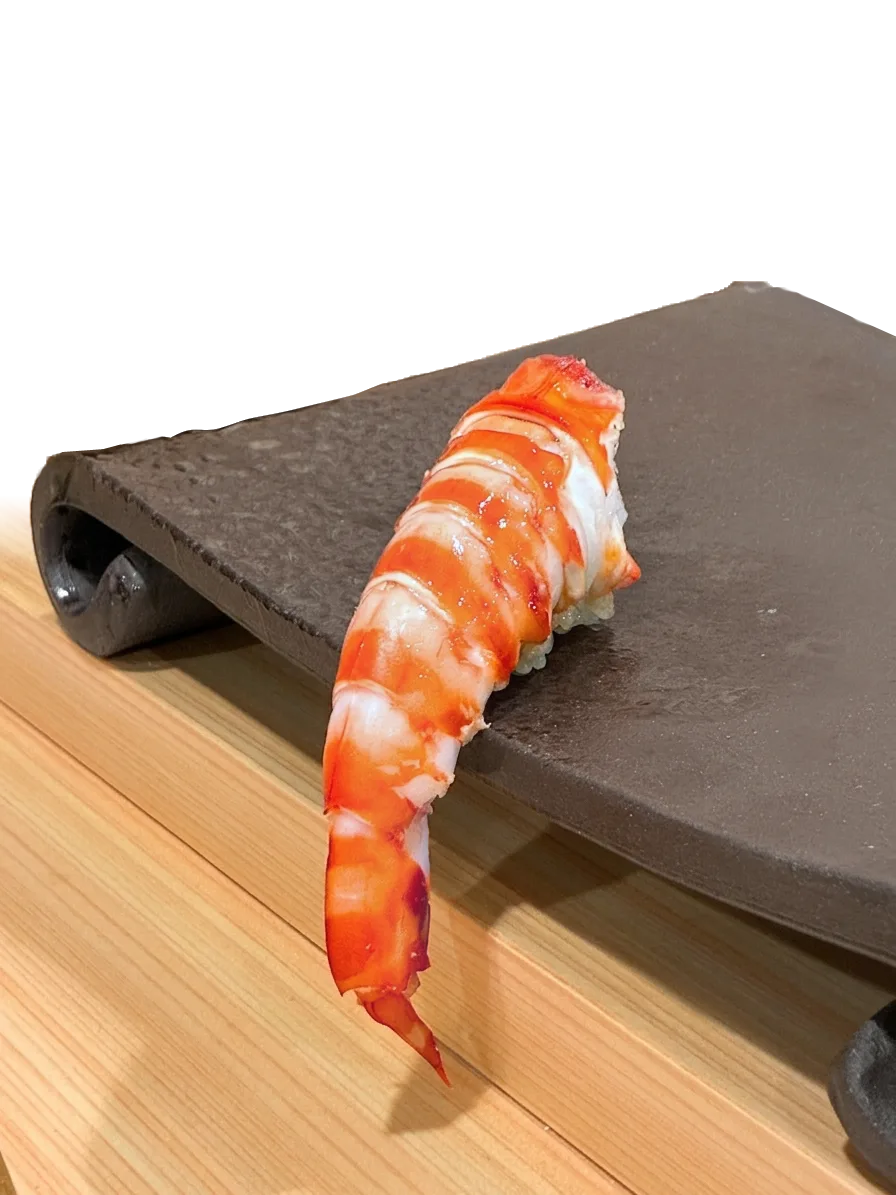
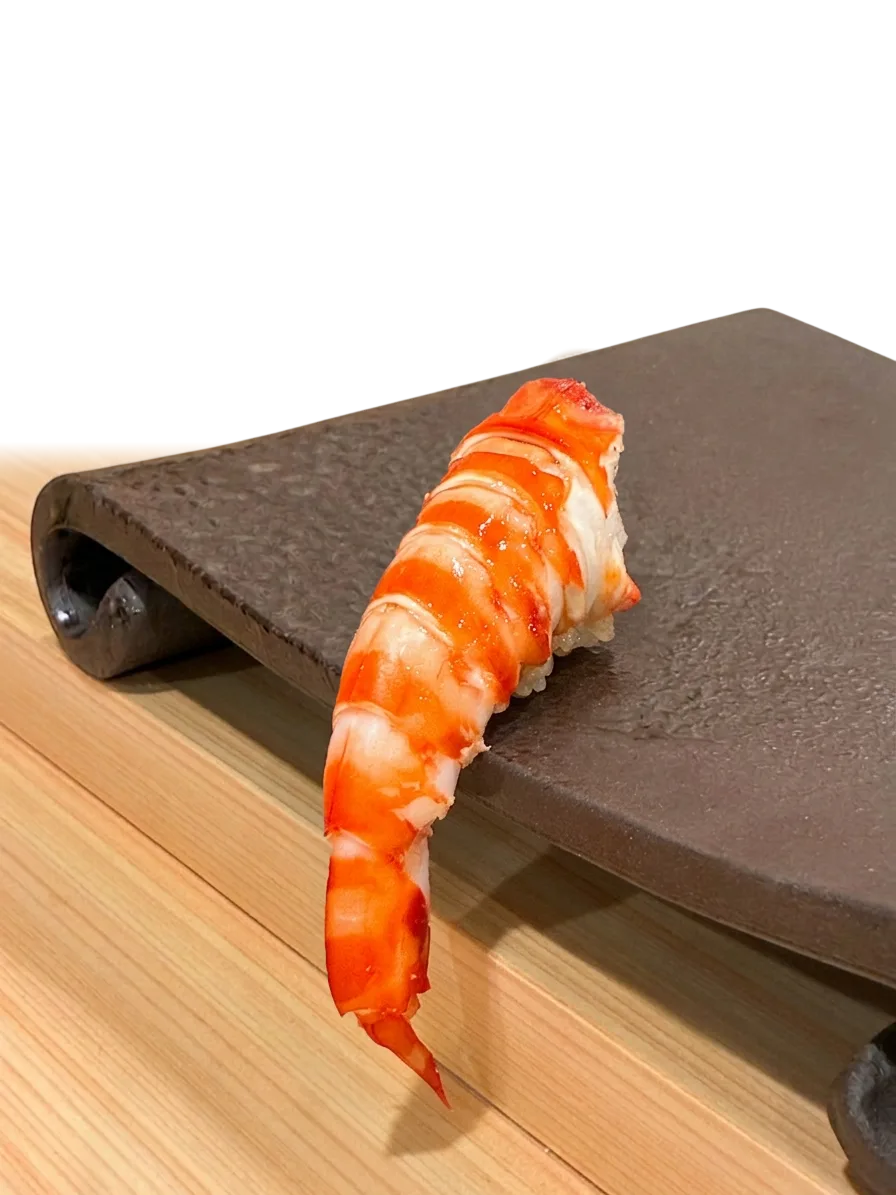
assets: ギャラリー左端・右端をおしゃしん・つー素材に差し替え
slide-1.png / sushi-photo-5.png 更新、WebP再生成、キャッシュバンプ。

Made-with: Cursor

diff --git a/index.html b/index.html
@@ -159,10 +159,10 @@
           <div class="slide__marquee">
             <div class="slide__track">
               <div class="slide__set">
-                <figure class="slide__item"><div class="slide__inner"><picture><source type="image/webp" media="(max-width: 767px)" srcset="./images/opt/slide-1-900w.webp?v=20260405"><img src="./images/slider/slide-1.png?v=20260405" width="896" height="1195" alt="おまかせの握り盛り合わせ" data-i18n-attrs="alt:slide_1_alt" loading="lazy" decoding="async" /></picture></div></figure>
+                <figure class="slide__item"><div class="slide__inner"><picture><source type="image/webp" media="(max-width: 767px)" srcset="./images/opt/slide-1-900w.webp?v=20260405-oshasin2tsu1"><img src="./images/slider/slide-1.png?v=20260405-oshasin2tsu1" width="896" height="1195" alt="おまかせの握り盛り合わせ" data-i18n-attrs="alt:slide_1_alt" loading="lazy" decoding="async" /></picture></div></figure>
                 <figure class="slide__item"><div class="slide__inner"><picture><source type="image/webp" media="(max-width: 767px)" srcset="./images/opt/slide-2-900w.webp?v=20260405-oshasin2"><img src="./images/slider/slide-2.png?v=20260405-oshasin2" width="896" height="1195" alt="季節の食材を用いた一皿" data-i18n-attrs="alt:slide_2_alt" loading="lazy" decoding="async" /></picture></div></figure>
                 <figure class="slide__item"><div class="slide__inner"><picture><source type="image/webp" media="(max-width: 767px)" srcset="./images/opt/slide-3-900w.webp?v=20260405-oshasin3"><img src="./images/slider/slide-3.png?v=20260405-oshasin3" width="896" height="1195" alt="職人の技を表現した一皿" data-i18n-attrs="alt:slide_3_alt" loading="lazy" decoding="async" /></picture></div></figure>
-                <figure class="slide__item"><div class="slide__inner"><picture><source type="image/webp" media="(max-width: 767px)" srcset="./images/opt/sushi-photo-5-900w.webp?v=20260405"><img src="./images/photo/sushi-photo-5.png?v=20260405" width="896" height="1195" alt="雲丹とトリュフを添えた一皿" data-i18n-attrs="alt:slide_4_alt" loading="lazy" decoding="async" /></picture></div></figure>
+                <figure class="slide__item"><div class="slide__inner"><picture><source type="image/webp" media="(max-width: 767px)" srcset="./images/opt/sushi-photo-5-900w.webp?v=20260405-oshasin2tsu5"><img src="./images/photo/sushi-photo-5.png?v=20260405-oshasin2tsu5" width="896" height="1195" alt="雲丹とトリュフを添えた一皿" data-i18n-attrs="alt:slide_4_alt" loading="lazy" decoding="async" /></picture></div></figure>
               </div>
             </div>
           </div>
